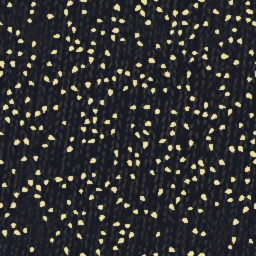
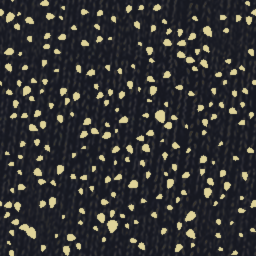
cabin777 econ w7 (from A 6.9 / B 7.2): U-shaped headrest pad with proud wing bolsters round a recessed slate cover, 0.025 lower; pans mixed independently of backs; diamond as a broken diagonal lattice of mixed-size stepped diamonds; lighter grey mosaic with crisp 1 mm dashes on a 25 x 18 mm cell gri
- Headrest: centre panel 0.34 behind the cover + wing lofts at x +-0.163 standing ~2 cm proud of it (y_47306 / 47302,
  sans 13: pad 0.90-0.96 of the back); pad, cover and mark 0.025 lower so the back rises ~5.5 cm above the fold
  (y_47306 0.053-0.073); far LOD to match
- econPan(): own hash for the pan fabric (y_47300: fleck / tick, tick / diamond, fleck / mosaic)
- y_diamond: diagonal lattice pitch 0.0867, 25 % of sites dropped, half-diagonals 0.03-0.046, mottled fill
- y_mosaic: 8 x 11 cells per 0.2 m tile, 30 % / 7 % dash cover, no blur; y_fleck: lognormal petals, 7.5 mm spacing
- Pillow outline more concave; net = dark panel + 14 x 4 strands; coat-hook knob on the +x hood side (side unconfirmed)
- Econ triangles 941,952 -> 1,026,672 (+2.5 % over the wave-3 start, 1,001,836)

Shared-file edits: 09_seats.js (SEATMAT yFabric, yFabricC, yHead, yCover, yBelt, yPillow), test/make_swatches.py
(y_diamond, y_fleck, y_mosaic), tex/tex_y_diamond.png, tex_y_fleck.png, tex_y_mosaic.png.

Claude-Session: https://claude.ai/code/session_01CDNepdnu7dWZvBrRdxsgp9

diff --git a/cabin777/src/09a_econ.js b/cabin777/src/09a_econ.js
@@ -8,13 +8,15 @@ const ECON = { back: 13 * DEG, hinge: [0.47, -0.075], sp: 19 * IN };
 // ANA mixes four fabric patterns seat by seat (y_47302: mosaic / diamond / ticks left to right; y_47306: diamond / ticks /
 // mosaic; y_47300 front row: tick / fleck / tick / fleck). econ w5 (A high): the petal fleck is the commonest (sans 13 / 14,
 // fr57325 124108) -> ~40 % fleck, 20 % each of the others [D]
+const econPan = (k, n, rot) => [SEATMAT.yFabric, SEATMAT.yFabricD, SEATMAT.yFabricC, SEATMAT.yFabric, SEATMAT.yFabricB][(k * 3 + n * 5 + (rot || 0) + 2) % 5];
 const econFab = (k, n, rot) => [SEATMAT.yFabric, SEATMAT.yFabricD, SEATMAT.yFabricC, SEATMAT.yFabricD, SEATMAT.yFabricB][(k * 7 + n * 3 + (rot || 0)) % 5];
 function econSeat(B, x0, lod, opts = {}) {
   const [hy, hz] = ECON.hinge;
   const F = opts.fab || SEATMAT.yFabric;
   const BH = M4.trs(x0, hy, hz, 0, ECON.back);
   // pan: the diamond seats carry the diamonds on the back only, the pan is the tick weave (y_47302 middle seat) [V]
-  const PF = F === SEATMAT.yFabricB ? SEATMAT.yFabric : F;
+  // w7 A + B: pans mix independently of the backs (y_47300: fleck back / tick pan, tick / diamond, fleck / mosaic) [V]
+  const PF = opts.panFab || (F === SEATMAT.yFabricB ? SEATMAT.yFabric : F);
   B.add(gLoft(cushionSecs(0.43, 0.47, 0.095, -0.05, { edge: 0.034, r: 0.03, crown: 0.01 }), lod ? 3 : 4), M4.trs(x0, 0.415, -0.28, 0, 3 * DEG), PF);
   B.add(gRBox(0.44, 0.035, 0.46, 0.012, 1), M4.trs(x0, 0.35, -0.27), SEATMAT.yShellDark);
   // back: rises ~0.05-0.065 above the headrest cushion to a rounded top (y_47306 all three seats, y_47301, sanspotter 13;
@@ -47,17 +49,21 @@ function econSeat(B, x0, lod, opts = {}) {
   // (y_47300); w6 A: each cushion in a different weave from its back (y_47306: diamond back / mosaic pad, tick / fleck,
   // mosaic / diamond); fleck backs keep fleck pads (y_47300 seats 2 / 4) [V]
   const HF = F === SEATMAT.yFabricB ? SEATMAT.yFabricC : F === SEATMAT.yFabricC ? SEATMAT.yFabricB : F === SEATMAT.yFabricD ? F : SEATMAT.yHead;
-  loftAt(B, [SEC(0.605, 0.30, 0.03, -0.02, 0.012), SEC(0.62, 0.345, 0.09, -0.05, 0.042), SEC(0.695, 0.355, 0.10, -0.052, 0.046), SEC(0.77, 0.35, 0.095, -0.05, 0.044), SEC(0.79, 0.325, 0.07, -0.045, 0.033), SEC(0.80, 0.28, 0.04, -0.038, 0.02)], BH, HF, lod ? 3 : 4);
+  // w7 A + B: a U-shaped pad ~0.39 wide (0.90-0.96 of the back in y_47306 / 47302, sans 13) - a centre panel behind the
+  // cover and two round wing bolsters ~2 cm proud of it at both ends; 0.025 lower so the back rises ~5.5 cm above the
+  // cover fold (y_47306 0.053-0.073, y_47301 ~0.06; the fold showed above the hood from behind) [D]
+  loftAt(B, [SEC(0.58, 0.30, 0.03, -0.02, 0.012), SEC(0.595, 0.33, 0.085, -0.048, 0.04), SEC(0.67, 0.34, 0.09, -0.05, 0.042), SEC(0.745, 0.335, 0.088, -0.049, 0.04), SEC(0.765, 0.31, 0.065, -0.043, 0.03), SEC(0.775, 0.27, 0.04, -0.038, 0.02)], BH, HF, lod ? 3 : 4);
+  for (const sx of [-0.163, 0.163]) loftAt(B, [SEC(0.585, 0.045, 0.06, -0.035, 0.02, sx), SEC(0.6, 0.06, 0.105, -0.056, 0.029, sx), SEC(0.675, 0.066, 0.12, -0.062, 0.032, sx), SEC(0.745, 0.064, 0.115, -0.06, 0.031, sx), SEC(0.765, 0.055, 0.09, -0.052, 0.026, sx), SEC(0.777, 0.04, 0.05, -0.042, 0.018, sx)], BH, HF, lod ? 2 : 4);
   // slate leatherette cover lying on the cushion front, wrapped ~3 cm over its top and hanging ~2.5 cm below it (the
   // flap hangs past the cushion onto the back, y_47306 right seat) [D]
   // one piece: plate on the cushion front, a fold overlapping both it and the cushion top, a hem tucking back (w3 B)
   // w6 B: 0.255 wide (y_47300 0.23 / y_47306 0.73 of the pad); the hem hangs nearly flat (at -20 deg it read as a shelf)
-  B.add(gRBox(0.255, 0.19, 0.005, 0.006, 1), M4.mul(BH, M4.trs(0, 0.705, -0.1005)), SEATMAT.yCover);
-  B.add(gRBox(0.255, 0.016, 0.046, 0.008, 2), M4.mul(BH, M4.trs(0, 0.799, -0.080)), SEATMAT.yCover);
-  B.add(gRBox(0.25, 0.03, 0.003, 0.002, 1), M4.mul(BH, M4.trs(0, 0.597, -0.0985, 0, -8 * DEG)), SEATMAT.yCover);
+  B.add(gRBox(0.255, 0.19, 0.005, 0.006, 1), M4.mul(BH, M4.trs(0, 0.68, -0.0985)), SEATMAT.yCover);
+  B.add(gRBox(0.255, 0.016, 0.046, 0.008, 2), M4.mul(BH, M4.trs(0, 0.774, -0.078)), SEATMAT.yCover);
+  B.add(gRBox(0.25, 0.03, 0.003, 0.002, 1), M4.mul(BH, M4.trs(0, 0.572, -0.0965, 0, -8 * DEG)), SEATMAT.yCover);
   if (lod) return;
   // small ANA mark in the flap's lower corner (viewer's right from the front, y_47306); w5 B: a thin grey logotype, not a sticker
-  B.add(gQuad(0.014, 0.006), M4.mul(BH, M4.trs(-0.105, 0.625, -0.1035, Math.PI)), { c: '#5a6079', r: 0.45 });
+  B.add(gQuad(0.014, 0.006), M4.mul(BH, M4.trs(-0.105, 0.60, -0.1015, Math.PI)), { c: '#5a6079', r: 0.45 });
   const on = (y, dz = 0, dx = 0) => M4.mul(BH, M4.trs(dx, y, zr(y) + dz));   // on the rear face
   // navy pillow resting on the cushion at the crease, ~0.35 x 0.24 (y_47300 aspect 0.65-0.7; sans 14 ~0.8 of the pan) [D]
   // w5 B: soft pillow, not a bevelled slab - a squashed sphere with pinched corners, slightly concave sides and a ~7 cm
@@ -68,7 +74,7 @@ function econSeat(B, x0, lod, opts = {}) {
       const sx = g.p[k], sy = g.p[k + 1], sz = g.p[k + 2], l = Math.hypot(sx, sz) || 1;
       const X = Math.sign(sx) * Math.pow(Math.abs(sx / l), 0.45) * l, Z = Math.sign(sz) * Math.pow(Math.abs(sz / l), 0.45) * l;
       // w6: wider (0.39 = 0.8 of the pan, y_47300 0.81 / sans 14 0.83), bow-tie outline with pinched corners
-      g.p[k] = 0.195 * X * (1 - 0.1 * (1 - Z * Z)); g.p[k + 2] = 0.13 * Z * (1 - 0.1 * (1 - X * X));
+      g.p[k] = 0.195 * X * (1 - 0.18 * (1 - Z * Z)); g.p[k + 2] = 0.13 * Z * (1 - 0.18 * (1 - X * X));
       g.p[k + 1] = sy * (0.004 + 0.034 * Math.sqrt(Math.max(0, (1 - Math.pow(Math.abs(X), 4)) * (1 - Math.pow(Math.abs(Z), 4)))));
     }
     computeNormals(g);
@@ -105,7 +111,11 @@ function econSeat(B, x0, lod, opts = {}) {
     // level (sanspotter 15 / 23, y_47307; w4 A: the w3 arms stood up the wrong way) [D]
     B.add(gRBox(0.33, 0.235, 0.018, 0.01, 1), on(0.353, 0.009), SEATMAT.yTray);
     B.add(gQuad(0.055, 0.022), on(0.425, 0.0185, -0.10), { c: '#eceded', r: 0.5 });
-    for (const dx of [-0.016, 0, 0.016]) B.add(gQuad(0.011, 0.013), on(0.425, 0.0187, -0.10 + dx), { c: '#2a2c31', r: 0.5 });   // w6 B: black pictograms (sans 15)
+    B.add(gQuad(0.059, 0.026), on(0.425, 0.0183, -0.10), { c: '#9a9ea4', r: 0.5 });     // w7 A: label border
+    for (const dx of [-0.016, 0, 0.016]) B.add(gQuad(0.011, 0.013), on(0.425, 0.0189, -0.10 + dx), { c: '#2a2c31', r: 0.5 });   // w6 B: black pictograms (sans 15)
+    for (const dx of [0, 0.016]) B.add(gCyl(0.003, 0.003, 0.0003, 12, true), hz(0.429, 0.0192, -0.096 + dx), { c: '#c8252b', r: 0.5 });   // red no-symbols (sans 20)
+    // off-white mushroom coat-hook knob near the top of the hood side (sans 22) [V]; side unconfirmed (questions_econ 11)
+    B.add(gCyl(0.014, 0.011, 0.014, 14), M4.mul(on(0.79, -0.035, 0.207), M4.trs(0, 0, 0, 0, 0, Math.PI / 2)), SEATMAT.yShell);
     B.add(gCyl(0.027, 0.027, 0.004, 16), hz(0.415, 0.0185, 0.10), { c: '#b9bdc3', r: 0.45 });
     B.add(gCyl(0.02, 0.02, 0.004, 16), hz(0.415, 0.02, 0.10), { c: '#c9ccd0', r: 0.45 });
     B.add(gRBox(0.052, 0.022, 0.014, 0.004, 1), on(0.47, 0.012), { c: '#6f737a', r: 0.4 });
@@ -137,7 +147,10 @@ function econSeat(B, x0, lod, opts = {}) {
     B.add(gCyl(0.004, 0.004, 0.27, 8), M4.mul(on(0.15, 0.032), M4.trs(0, 0, 0, 0, 0, Math.PI / 2)), { c: '#a9acb1', r: 0.5 });
     // w5 A + B: the net is a see-through black mesh reaching ~0.02 past the flap each side, with a ruched elastic top
     // (sans 23); no alpha here, so a lighter mesh tone lets the grille pattern read as holes [D]
-    B.add(gRBox(0.31, 0.07, 0.004, 0.004, 1), on(0.05, 0.015), { c: '#3a3d44', r: 0.8, l: LAYER.grille });   // w6 B: thin, lighter (was an opaque 14 mm slab)
+    // w7 A + B: a dark back panel behind a lattice of thin strands, so the net reads as see-through mesh (sans 20 / 23)
+    B.add(gQuad(0.31, 0.07), on(0.05, 0.012), { c: '#1a1b1f', r: 0.9 });
+    for (let i = 0; i < 14; i++) B.add(gBox(0.0025, 0.07, 0.002), on(0.05, 0.017 + 0.003 * Math.sin(i / 13 * Math.PI), -0.15 + i * 0.3 / 13), { c: '#2e3036', r: 0.8 });
+    for (let j = 0; j < 4; j++) B.add(gBox(0.31, 0.0025, 0.002), on(0.022 + j * 0.017, 0.018), { c: '#2e3036', r: 0.8 });
     B.add(gCyl(0.007, 0.007, 0.31, 8), M4.mul(on(0.084, 0.027), M4.trs(0, 0, 0, 0, 0, Math.PI / 2)), { c: '#303238', r: 0.9, l: LAYER.fabric });
   }
   // footrest for the passenger behind: two off-white hanger arms clamped to the rear spreader tube, carrying ribbed
@@ -178,7 +191,7 @@ function econUnit(n, lod = false, opts = {}) {
   const B = new Builder();
   const sp = ECON.sp;
   const xs = []; for (let k = 0; k < n; k++) xs.push((k - (n - 1) / 2) * sp);
-  xs.forEach((x, k) => econSeat(B, x, lod, { ...opts, fab: econFab(k, n, opts.rot) }));
+  xs.forEach((x, k) => econSeat(B, x, lod, { ...opts, fab: econFab(k, n, opts.rot), panFab: econPan(k, n, opts.rot) }));
   const arms = []; for (let k = 0; k <= n; k++) arms.push((k - n / 2) * sp);
   arms.forEach((xa, k) => {
     // sculpted off-white armrest (thick, rounded, slightly drooping nose) on a rear pivot post (y_47302 / 47303)
@@ -230,13 +243,13 @@ function econUnitFar(n, rot = 0) {
   for (let k = 0; k < n; k++) {
     const x0 = (k - (n - 1) / 2) * sp;
     const f = econFab(k, n, rot);
-    B.add(gRBox(0.43, 0.10, 0.47, 0.04, 1), M4.trs(x0, 0.41, -0.28, 0, 3 * DEG), f === SEATMAT.yFabricB ? SEATMAT.yFabric : f);
+    B.add(gRBox(0.43, 0.10, 0.47, 0.04, 1), M4.trs(x0, 0.41, -0.28, 0, 3 * DEG), econPan(k, n, rot));
     const BH = M4.trs(x0, ECON.hinge[0], ECON.hinge[1], 0, ECON.back);
     B.add(gRBox(0.42, 0.86, 0.08, 0.035, 1), M4.mul(BH, M4.trs(0, 0.43, -0.005)), f);   // same mix as econUnit
     B.add(gRBox(0.446, 0.62, 0.045, 0.015, 1), M4.mul(BH, M4.trs(0, 0.25, 0.058)), SEATMAT.yShell);
     B.add(gRBox(0.40, 0.40, 0.12, 0.015, 1), M4.mul(BH, M4.trs(0, 0.68, 0.062)), SEATMAT.yShell);    // screen hood, capping the back top (w5; w6 0.40, tight corners)
-    B.add(gRBox(0.35, 0.2, 0.09, 0.035, 1), M4.mul(BH, M4.trs(0, 0.70, -0.05)), f === SEATMAT.yFabricB ? SEATMAT.yFabricC : f === SEATMAT.yFabricC ? SEATMAT.yFabricB : f === SEATMAT.yFabricD ? f : SEATMAT.yHead);
-    B.add(gBox(0.255, 0.225, 0.01), M4.mul(BH, M4.trs(0, 0.6875, -0.1)), SEATMAT.yCover);
+    B.add(gRBox(0.39, 0.2, 0.11, 0.04, 1), M4.mul(BH, M4.trs(0, 0.675, -0.058)), f === SEATMAT.yFabricB ? SEATMAT.yFabricC : f === SEATMAT.yFabricC ? SEATMAT.yFabricB : f === SEATMAT.yFabricD ? f : SEATMAT.yHead);
+    B.add(gBox(0.255, 0.225, 0.01), M4.mul(BH, M4.trs(0, 0.6625, -0.11)), SEATMAT.yCover);
     B.add(gQuad(0.316, 0.205), M4.mul(BH, M4.trs(0, 0.7275, 0.1245)), SEATMAT.bezel);
     B.add(gQuad(0.294, 0.166), M4.mul(BH, M4.trs(0, 0.7275, 0.1265)), SEATMAT.screen, atlasUV('screen'));
   }

diff --git a/cabin777/src/09_seats.js b/cabin777/src/09_seats.js
@@ -14,9 +14,9 @@ const SEATMAT = {
   // econ QA w1: #5468a8 rendered too pure a blue (q15 R/B 0.33, G/B 0.46 vs y_47300 0.44 / 0.58) -> greyer #6a79a8 [D]
   // econ w5 (A + B high): after the lighting r3 AO lift the tick / diamond seats rendered 1.6-2x too light (q15 L50 103 / 114
   // vs y_47300 backs 46-92); mosaic (L50 59) is the anchor, target tick ~70, diamond ~80, fleck ~55 [D]
-  yFabric: { c: photoBase('#52597f', 'y_tick'), r: 0.9, l: LAYER.yJacq },
+  yFabric: { c: photoBase('#5a6587', 'y_tick'), r: 0.9, l: LAYER.yJacq },   // w7 A: q15 L50 55 G/B 0.55 vs y_47300 68-91 / 0.62-0.66
   yFabricB: { c: photoBase('#565e82', 'y_diamond'), r: 0.9, l: LAYER.yDiamond },
-  yFabricC: { c: photoBase('#3e4a7a', 'y_mosaic'), r: 0.9, l: LAYER.yMosaicP },   // third variant: dash mosaic (y_47302 left, y_47306 right); w6 A: photo-measured dash checker tile, was blobby procedural layer 11
+  yFabricC: { c: photoBase('#4a5576', 'y_mosaic'), r: 0.9, l: LAYER.yMosaicP },   // third variant: dash mosaic (y_47302 left, y_47306 right); w6 A: photo-measured dash checker tile, was blobby procedural layer 11; w7 A: q15 #1e2a62 L 41 vs y_47306 #384877 L 60 -> greyer, lighter
   yFabricD: { c: photoBase('#424d70', 'y_fleck'), r: 0.9, l: LAYER.yFleck },   // econ w5: petal fleck (y_47300 seats 2 / 4, sans 14 L50 48); w6 A: G/B 0.45 vs 0.54 -> greener
   // headrest cushion: sparse white confetti on cobalt, a different fabric from the back (y_47306 / 47302 wings,
   // REFERENCE777.md) - shares the luminance-only confetti swatch with the PY wings
@@ -25,15 +25,15 @@ const SEATMAT = {
   // seats: short white dashes ~6 x 2 mm, not the 11-22 mm PY confetti blobs) -> the dash mosaic layer [D]
   // econ w5: the procedural mosaic's big white dashes read as blotches on the wings (q16); the wing weave is short pale
   // dashes on navy (y_47306), i.e. the fleck swatch, one step lighter than the fleck backs (w5 B) [D]
-  yHead: { c: photoBase('#4d5479', 'y_fleck'), r: 0.9, l: LAYER.yFleck },
+  yHead: { c: photoBase('#566088', 'y_fleck'), r: 0.9, l: LAYER.yFleck },
   // slate-grey leatherette cover, lighter + greyer than the fabric (y_47302 #474960-#4d526f, y_47306 #445072,
   // y_47301 #434765; QA r2 was #3e4661 -> rendered as black slabs)
-  yCover: { c: '#3b4260', r: 0.38, l: LAYER.plastic },     // econ w2: smooth leatherette; w5: q15 L 110 vs y_47300 #272d48 L 47 -> darker; w6 A: q16 cover/back 0.58 vs y_47301 0.82 -> a shade lighter
+  yCover: { c: '#474c5e', r: 0.45, l: LAYER.plastic },     // econ w2: smooth leatherette; w5: q15 L 110 vs y_47300 #272d48 L 47 -> darker; w6 A: q16 cover/back 0.58 vs y_47301 0.82 -> a shade lighter; w7 A + B: R/B 0.46 vs 0.52-0.74 -> slate
   yShell: { c: '#d9dbde', r: 0.42, l: LAYER.plastic },
   yShellDark: { c: '#c2c5c9', r: 0.5, l: LAYER.plastic },
   yTray: { c: '#cfd2d6', r: 0.4, l: LAYER.plastic },
-  yBelt: { c: '#243a66', r: 0.9, l: LAYER.fabric },        // y_47303 #325495 / #456198 (w5 B: #3a64a6 rendered sky-cyan; w6 B: #2e4c86 rendered #588ed0 vs y_47303 #38578c)
-  yPillow: { c: '#3e4565', r: 0.9, l: LAYER.fabric },      // y_47300 (44,53,88); econ w2: #2e3860 rendered #151b3e vs photo #30395f; w6 B: #4d5579 q15 L50 59 vs 44
+  yBelt: { c: '#25466a', r: 0.9, l: LAYER.fabric },        // y_47303 #325495 / #456198 (w5 B: #3a64a6 rendered sky-cyan; w6 B: #2e4c86 rendered #588ed0 vs y_47303 #38578c; w7 A: G/B 0.47 vs 0.61 -> teal lean)
+  yPillow: { c: '#3d4763', r: 0.9, l: LAYER.fabric },      // y_47300 (44,53,88); econ w2: #2e3860 rendered #151b3e vs photo #30395f; w6 B: #4d5579 q15 L50 59 vs 44
   arm: { c: '#c4c8cd', r: 0.45, l: LAYER.plastic },       // econ QA w1: light grey, y_47303 #afb2bc / y_47302 #9fa6ab
   armPad: { c: '#b6bac0', r: 0.5, l: LAYER.plastic },
   armPost: { c: '#a9aeb4', r: 0.45, l: LAYER.plastic },    // econ w2: grey arm front bracket (y_47302 / 47303)

diff --git a/cabin777/test/make_swatches.py b/cabin777/test/make_swatches.py
@@ -208,17 +208,25 @@ def y_diamond():
     rng = np.random.default_rng(7)
     m = np.zeros((n, n), np.float32)
     step = 0.005 / 0.26
-    for cu, cv in [(a + (1 / 6 if r % 2 else 0), 1 / 12 + r / 6) for r in range(6) for a in (0.0, 1 / 3, 2 / 3)]:
+    # econ w7 A + B: a fixed small size on a square grid read as a grid of plus-shaped stars; the photos show stepped
+    # diamonds of mixed size (0.03-0.065 m) nearly touching tip to tip along both diagonals, with gaps (a broken lattice)
+    # -> diagonal lattice of pitch 0.0867 (3 x 3 + centred sites per 0.26 tile), 25 % of sites dropped, half-diagonals
+    # 0.03-0.046 m (tips ~touching on the 0.061 m diagonal) [D]
+    sites = [((a + o) / 3, (b + o) / 3) for o in (0, 0.5) for a in range(3) for b in range(3)]
+    sites = [c for c in sites if rng.random() > 0.25]
+    for cu, cv in sites:
+        hd = rng.uniform(0.03, 0.046)           # minus one 5 mm ceil step -> 0.05-0.08 m figures, tips ~touching
         for ou in (-1, 0, 1):
             for ov in (-1, 0, 1):
                 # econ w6 (A + B): ceil, not floor - floor grew every diamond by one step (light area 0.54 vs Otsu 0.07-0.24)
                 du = np.ceil(np.abs(u - cu - ou) / step) * step
                 dv = np.ceil(np.abs(v - cv - ov) / step) * step
-                m = np.maximum(m, (du / (0.026 / 0.26) + dv / (0.022 / 0.26) <= 1).astype(np.float32))
+                m = np.maximum(m, (du / (hd / 0.26) + dv / (hd * 0.87 / 0.26) <= 1).astype(np.float32))
     # ragged ikat edges: a little value noise on the mask, then a 1 px soften
     m = np.clip(m + (rng.random((n, n)) - 0.5) * 0.5 * (np.asarray(Image.fromarray((m * 255).astype(np.uint8)).filter(ImageFilter.MaxFilter(3)).filter(ImageFilter.FIND_EDGES)) > 0), 0, 1)
     m = (m > 0.5).astype(np.float32)
     m = np.asarray(Image.fromarray((m * 255).astype(np.uint8)).filter(ImageFilter.GaussianBlur(0.4))).astype(np.float32)[..., None] / 255
+    m = m * (0.8 + 0.2 * _blur_wrap(rng.random((n, n)), 1.0)[..., None] / 0.5).clip(0.7, 1.0)   # w7 A: mottled ~3 mm fill
     # econ w6 B: quieter tick ground (x0.4) so the ticks don't join the figure; brighter blocks keep hi/lo ~1.9 (y_47306 / 47302)
     tm = t.reshape(-1, 3).mean(0)
     lift = np.array([2.5, 2.2, 1.7], np.float32)          # pale lavender-grey blocks (y_47302 / y_47306)
@@ -243,12 +251,12 @@ def y_fleck():
     y, x = np.mgrid[0:n, 0:n].astype(np.float32)
     m = np.zeros((n, n), np.float32)
     pts = []
-    while m.mean() < 0.095:
+    while m.mean() < 0.11:
         cx, cy = rng.random(2) * n
         # evenly spread (y_47300 seat 2: flecks never clump): reject centres within 6 mm of another (w6 B: 4.5 mm still clumped) (tile-wrapped)
-        if any(min(abs(cx - px), n - abs(cx - px)) ** 2 + min(abs(cy - py), n - abs(cy - py)) ** 2 < (6 * mm) ** 2 for px, py in pts): continue
+        if any(min(abs(cx - px), n - abs(cx - px)) ** 2 + min(abs(cy - py), n - abs(cy - py)) ** 2 < (7.5 * mm) ** 2 for px, py in pts): continue
         pts.append((cx, cy))
-        a, b = rng.uniform(1.8, 3.0) * mm, rng.uniform(1.3, 2.0) * mm      # half-axes; econ w6 A: rounder petals 3.5-6 x 2.5-4 mm (y_47300 seats 2 / 4)
+        a = np.exp(rng.normal(np.log(2.9), 0.25)) * mm; b = a * rng.uniform(0.6, 0.75)      # half-axes; w6 A rounder; w7 A: larger lognormal 4.5-9 x 3-5 mm, ~0.6x the count (y_47300 seats 2 / 4)
         th = rng.random() * np.pi
         for ox in (-n, 0, n):
             for oy in (-n, 0, n):
@@ -277,8 +285,10 @@ def y_mosaic():
     rng = np.random.default_rng(5)
     m = np.zeros((n, n), np.float32)
     # checker of cells 30 x 20 mm (0.2 m tile -> 6.67 x 10: use 7 x 10 cells, 28.6 x 20 mm) with per-cell density
-    cw, ch = n / 7, n / 10
-    dens = np.array([[0.35 if (i + j) % 2 else 0.08 for i in range(7)] for j in range(10)]) * rng.uniform(0.8, 1.2, (10, 7))
+    # w7 B: a rectangular grid of cells ~25 x 18 mm (8 x 11 per 0.2 m tile)
+    NI, NJ = 8, 11
+    cw, ch = n / NI, n / NJ
+    dens = np.array([[0.30 if (i + j) % 2 else 0.07 for i in range(NI)] for j in range(NJ)]) * rng.uniform(0.8, 1.2, (NJ, NI))
     pitch = 1.6 * mm                                   # dash rows ~1.6 mm apart (y_47306 right seat)
     for r in range(int(n / pitch)):
         yc = (r + 0.5) * pitch
@@ -286,13 +296,13 @@ def y_mosaic():
         while x < n:
             L = rng.uniform(6, 12) * mm
             cx = (x + L / 2) % n
-            j = int(yc / ch) % 10; i = int((cx + rng.normal(0, 1.5 * mm)) / cw) % 7
-            if rng.random() < dens[j, i] / 0.35 * 0.55:
+            j = int(yc / ch) % NJ; i = int(cx / cw) % NI
+            if rng.random() < dens[j, i] / 0.30 * 0.55:
                 y0 = int(yc); y1 = y0 + 1                   # ~1 mm dash (1 px on the 0.2 m tile)
                 xs = np.arange(int(x), int(x + L)) % n
                 m[max(y0, 0):min(y1, n), xs] = 1
             x += L + rng.uniform(1.5, 4) * mm
-    m = np.asarray(Image.fromarray((m * 255).astype(np.uint8)).filter(ImageFilter.GaussianBlur(0.5))).astype(np.float32)[..., None] / 255
+    m = m[..., None]                                   # w7 A: crisp, no blur
     lift = np.array([7.0, 7.0, 5.0], np.float32)          # near-white dashes (y_47306 right seat)
     ratio = ground * (1 - m) + lift * m
     ratio /= ratio.reshape(-1, 3).mean(0)
